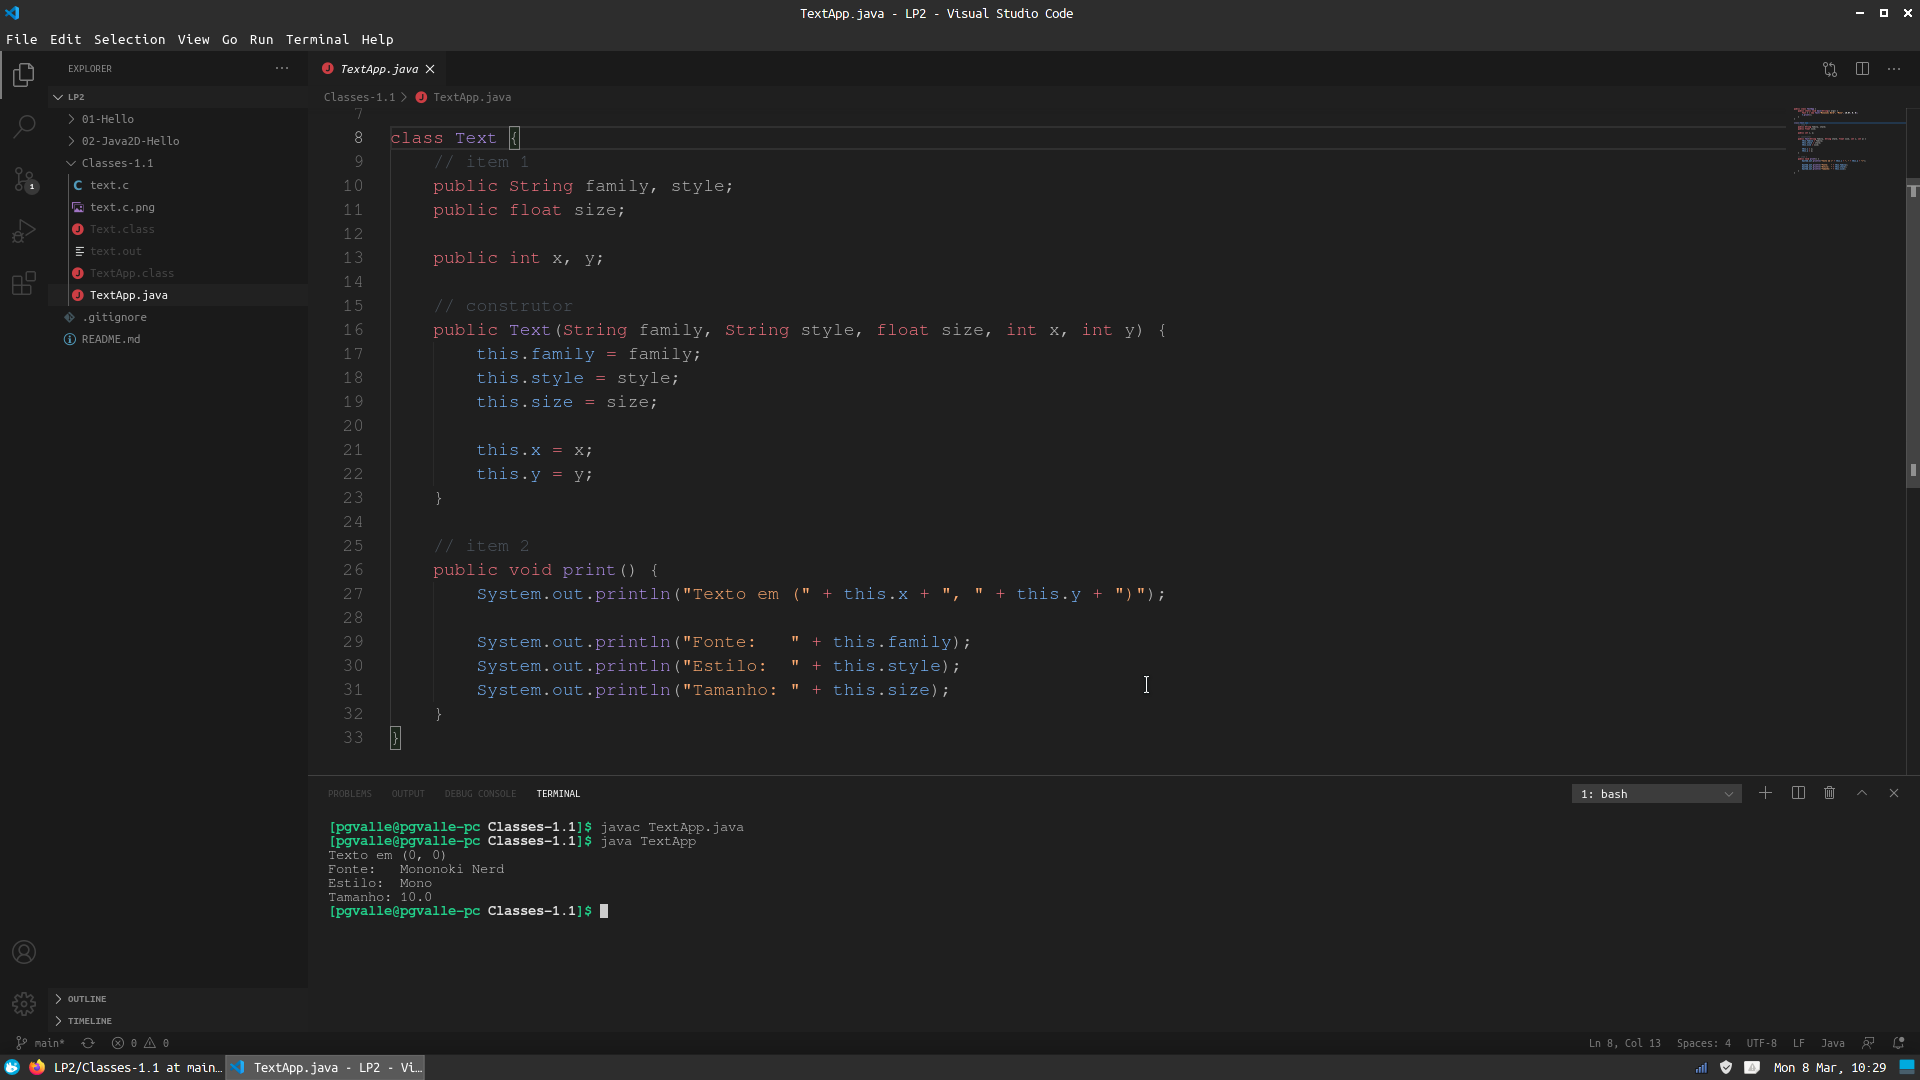
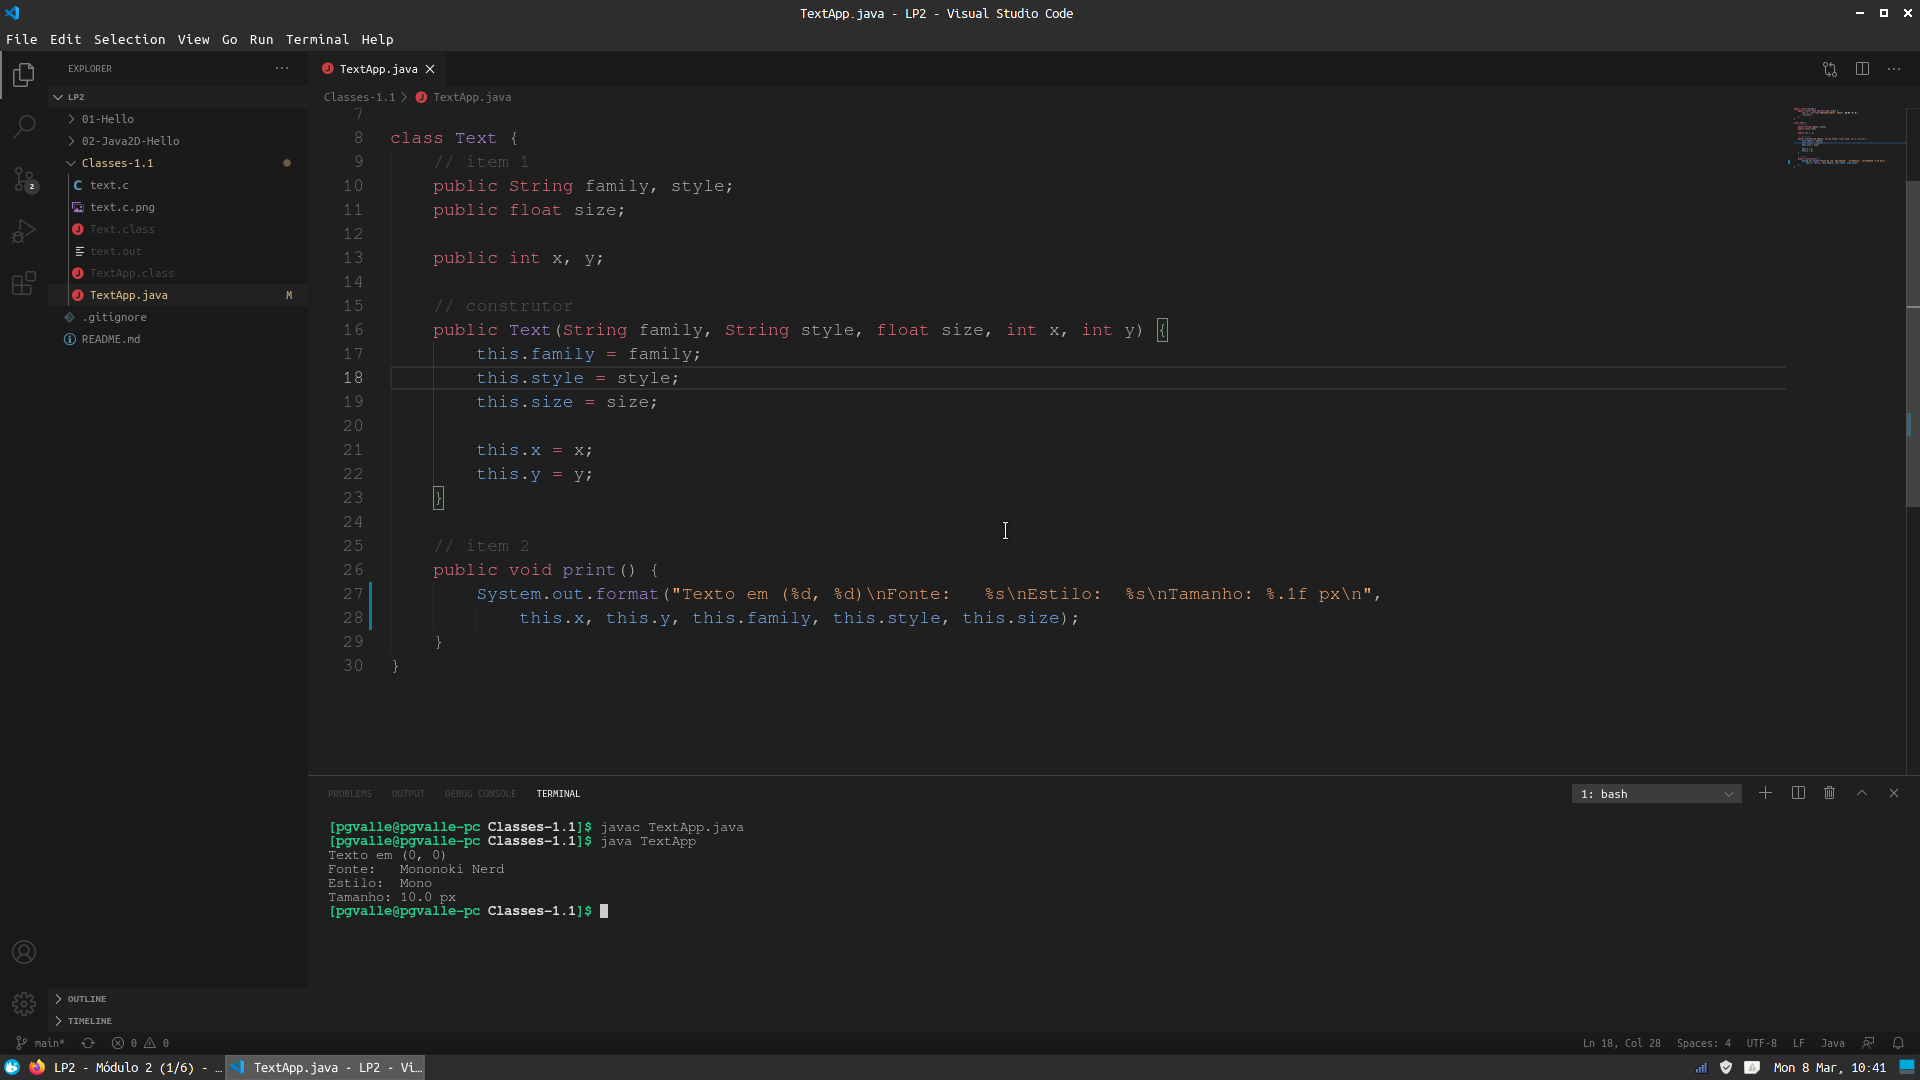
Update do exercicio Classes-1.1

diff --git a/Classes-1.1/TextApp.java b/Classes-1.1/TextApp.java
@@ -24,10 +24,7 @@ class Text {
 
     // item 2
     public void print() {
-        System.out.println("Texto em (" + this.x + ", " + this.y + ")");
-
-        System.out.println("Fonte:   " + this.family);
-        System.out.println("Estilo:  " + this.style);
-        System.out.println("Tamanho: " + this.size);
+        System.out.format("Texto em (%d, %d)\nFonte:   %s\nEstilo:  %s\nTamanho: %.1f px\n",
+            this.x, this.y, this.family, this.style, this.size);
     }
 }
